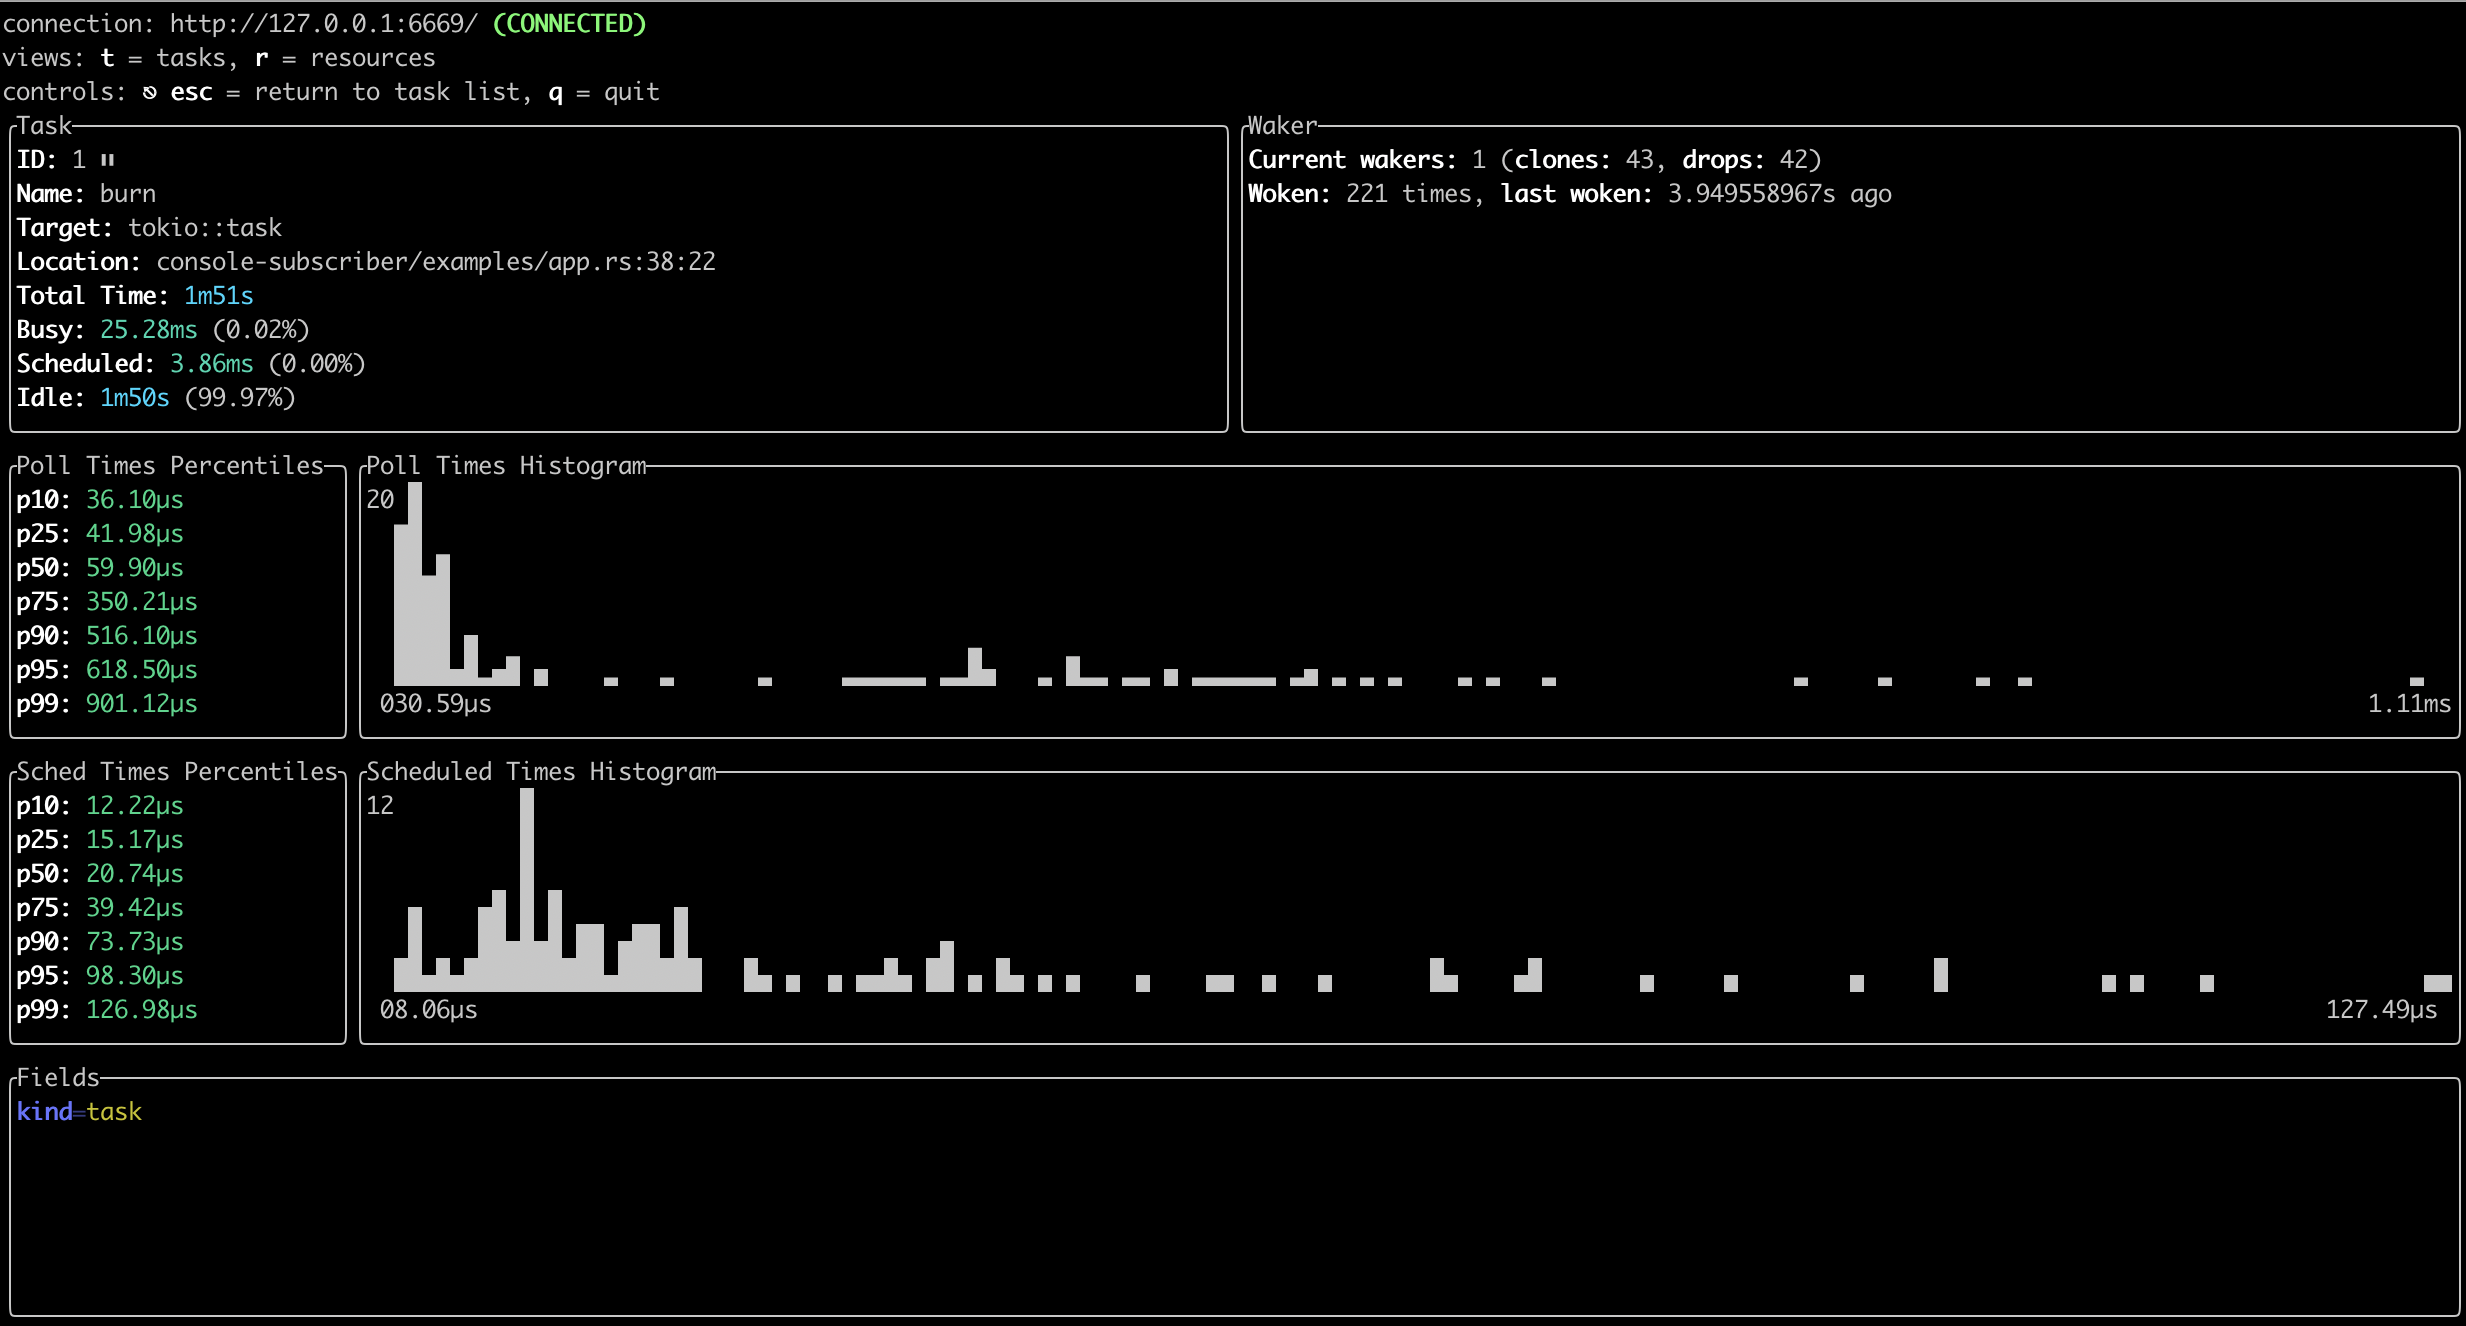
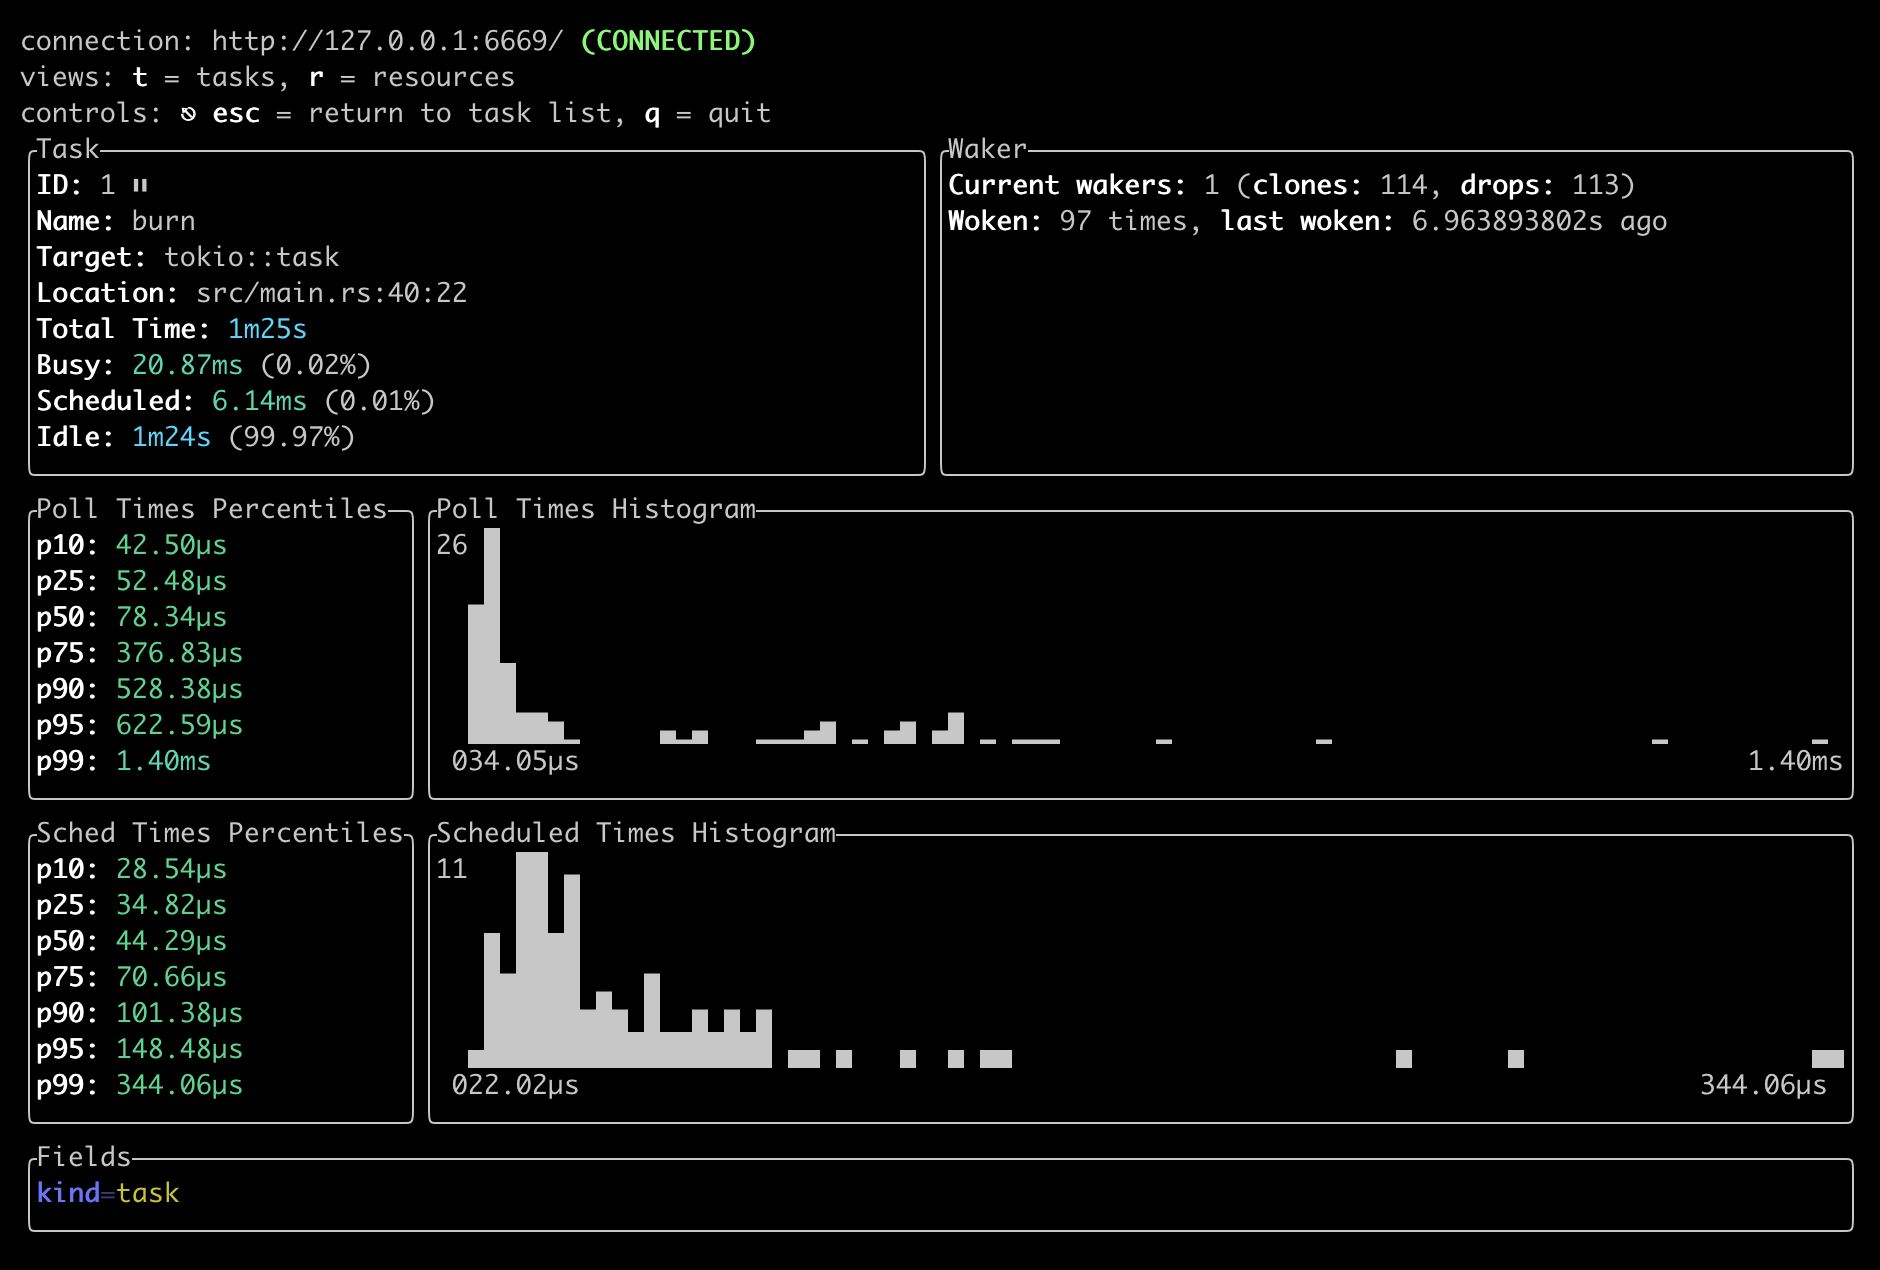
updated scheduled time post after console release
The `tokio-console` and `console-subscriber` crates have had new
releases, so I've mentioned this in the post. I've also updated the
images using the same method used in the `tokio-console` docs.rs page.

diff --git a/content/posts/scheduled-time.md b/content/posts/scheduled-time.md
@@ -5,6 +5,8 @@ author = "hds"
 date = "2023-04-26"
 +++
 
+> Update (2023-05-10): A new version of `tokio-console` is [available](#availability) including this change!
+
 Last week we merged a small set of cool changes in [Tokio Console](https://github.com/tokio-rs/console).
 
 They added support for tracking and displaying per task scheduled time.
@@ -141,7 +143,7 @@ Let's look at the task with the highest scheduled time, `task2`.
 
 It's quickly clear that `task2` spends most of its time "scheduled".
 
-Exactly 63.57% of its time when this screenshot was taken.
+Exactly 61.34% of its time when this screenshot was taken.
 
 We can also see that during most poll cycles, `task2` spends more than 1 second scheduled.
 
@@ -155,7 +157,7 @@ Let's look at the task details for the `burn` task that we saw at the beginning.
 
 Here we see that the scheduled times are more reasonable.
 
-Between 8 and 127 microseconds.
+Between 22 and 344 microseconds.
 
 (by the way, this example app is available in the [console repo](https://github.com/tokio-rs/console/blob/main/console-subscriber/examples/app.rs))
 
@@ -165,6 +167,8 @@ But with Tokio console, you now have that information easily available.
 
 ### availability
 
-The scheduled time feature hasn't been released yet.
+(updated 2023-05-10)
 
-To use it, you need to use the [`main`](https://github.com/tokio-rs/console) branch for both `console-subscriber` and `tokio-console`.
+The scheduled time feature has released!
+
+To use it, you need at least [`tokio-console` 0.1.8](https://crates.io/crates/tokio-console/0.1.8) and [`console-subscriber` 0.1.9](https://crates.io/crates/console-subscriber/0.1.9).
